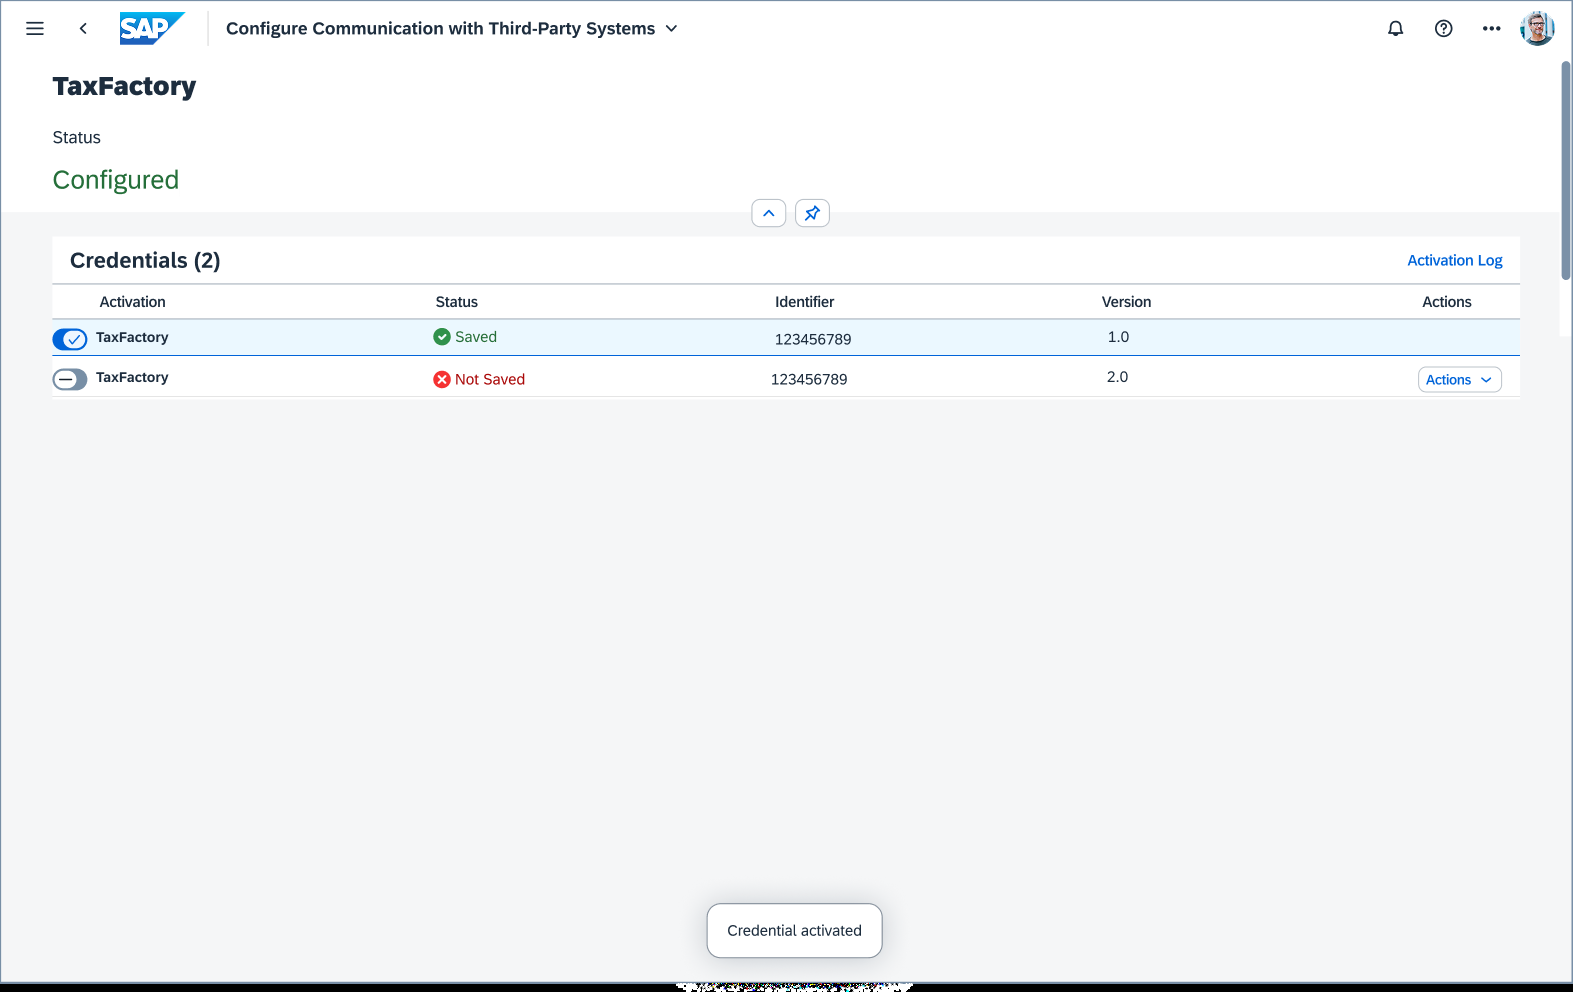
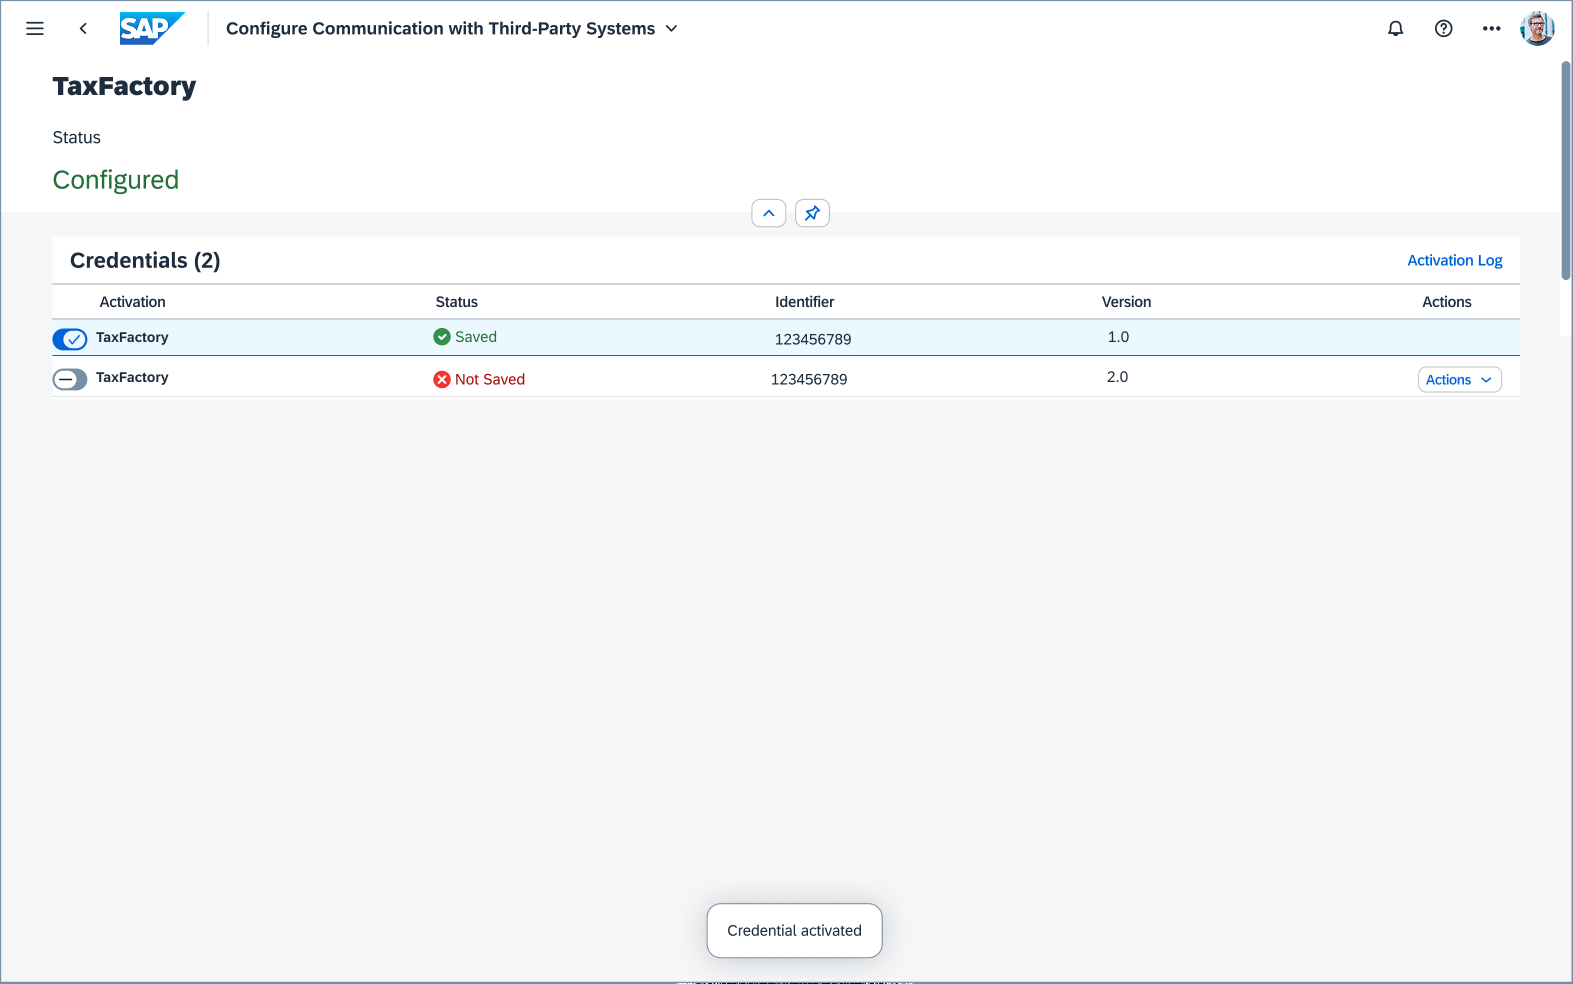
Refine per feedback: simpler cover/titles, remove hints, reword low-fi, add threat-modeling note, crop black bars, fix print artifacts

diff --git a/presentation.css b/presentation.css
@@ -104,12 +104,12 @@ body {
 }
 .s-title {
   font-family: var(--font-display);
-  font-weight: 800;
-  line-height: 1.05;
-  letter-spacing: -0.03em;
-  font-size: clamp(2rem, 4.6vw, 3.4rem);
+  font-weight: 700;
+  line-height: 1.12;
+  letter-spacing: -0.02em;
+  font-size: clamp(1.65rem, 3.2vw, 2.5rem);
 }
-.s-title--xl { font-size: clamp(2.6rem, 7vw, 5rem); }
+.s-title--xl { font-size: clamp(2.3rem, 5.2vw, 3.8rem); letter-spacing: -0.03em; }
 .s-lede {
   margin-top: 1.2rem;
   max-width: 64ch;
@@ -164,7 +164,7 @@ body {
 .divider__num {
   font-family: var(--font-display);
   font-weight: 800;
-  font-size: clamp(4rem, 16vw, 11rem);
+  font-size: clamp(2.6rem, 7.5vw, 5rem);
   line-height: 0.9;
   letter-spacing: -0.05em;
   background: linear-gradient(120deg, var(--accent), var(--accent-2));
@@ -172,8 +172,8 @@ body {
 }
 .divider__title {
   font-family: var(--font-display);
-  font-weight: 800;
-  font-size: clamp(2rem, 5vw, 3.6rem);
+  font-weight: 700;
+  font-size: clamp(1.7rem, 3.8vw, 2.7rem);
   letter-spacing: -0.03em;
   margin-top: 0.4rem;
 }
@@ -507,8 +507,8 @@ body {
 .closing { text-align: center; }
 .closing__title {
   font-family: var(--font-display);
-  font-weight: 800;
-  font-size: clamp(3rem, 10vw, 7rem);
+  font-weight: 700;
+  font-size: clamp(2.3rem, 5.5vw, 3.8rem);
   line-height: 1;
   letter-spacing: -0.04em;
   background: linear-gradient(100deg, var(--accent), var(--accent-2));
@@ -652,6 +652,7 @@ body {
   @page { size: 1280px 720px; margin: 0; }
   html, body { overflow: visible; height: auto; background: #fff; }
   .deck__progress, .deck__topbar, .deck__nav, .hint { display: none !important; }
+  .slide--glow::before { display: none !important; }
   .deck { position: static; }
   .slide {
     position: relative;
@@ -668,6 +669,12 @@ body {
   }
   .slide .anim { opacity: 1 !important; transform: none !important; }
   .shot__img img { max-height: 34vh; }
+  /* gradient text-clip ghosts as a filled box in print; use solid color */
+  .divider__num, .metric__num, .mark {
+    background: none !important;
+    -webkit-text-fill-color: var(--accent) !important;
+    color: var(--accent) !important;
+  }
 }
 
 /* Body class toggled during PDF capture so all slides stack/paint */

diff --git a/presentation.html b/presentation.html
@@ -36,7 +36,6 @@
         <p class="eyebrow anim" style="--i:0">✦ Bruna Demichei Nobre · UX Designer</p>
         <h1 class="s-title s-title--xl anim" style="--i:1">Use Cases</h1>
         <div class="cover__meta anim" style="--i:2">
-          <span>Two UX case studies</span>
           <span>SAP SuccessFactors Payroll · USA</span>
         </div>
         <div class="cover__cases">
@@ -77,7 +76,6 @@
             <p>A fragmented AIESEC exchange journey turned into one guided hub for participants and managers, designed and prototyped with AI.</p>
           </div>
         </div>
-        <p class="s-note anim" style="--i:4;margin-top:1.4rem">Use the arrow keys (← →) or the controls below to move through the deck.</p>
       </div>
     </section>
 
@@ -147,7 +145,7 @@
         <div class="head">
           <p class="kicker anim" style="--i:0">Case 01 · Explore</p>
           <h2 class="s-title anim" style="--i:1">First exploration: low-fidelity</h2>
-          <p class="s-lede anim" style="--i:2">A multi-step wizard: enter credentials, test them, and review everything in one list.</p>
+          <p class="s-lede anim" style="--i:2">A guided, step-by-step flow: enter the credentials, test them, and review everything in one list.</p>
         </div>
         <div class="shots shots--3">
           <figure class="shot anim" style="--i:3">
@@ -350,6 +348,7 @@
             <p>Mentored by my colleagues, I ran the UX implementation review against Figma and filed bugs and review PRs.</p>
           </div>
         </div>
+        <p class="s-note anim" style="--i:5;margin-top:1.4rem">I also joined an afternoon threat-modeling session, walking through the entire UI and system to surface potential security risks.</p>
       </div>
     </section>
 
@@ -594,7 +593,6 @@
   </main>
 
   <!-- ===== Bottom nav ===== -->
-  <div class="hint" id="hint">Use ← → · Space · F for fullscreen</div>
   <nav class="deck__nav" aria-label="Slide navigation">
     <button class="nav-arrow" id="prev" aria-label="Previous slide">←</button>
     <div class="dots" id="dots"></div>
